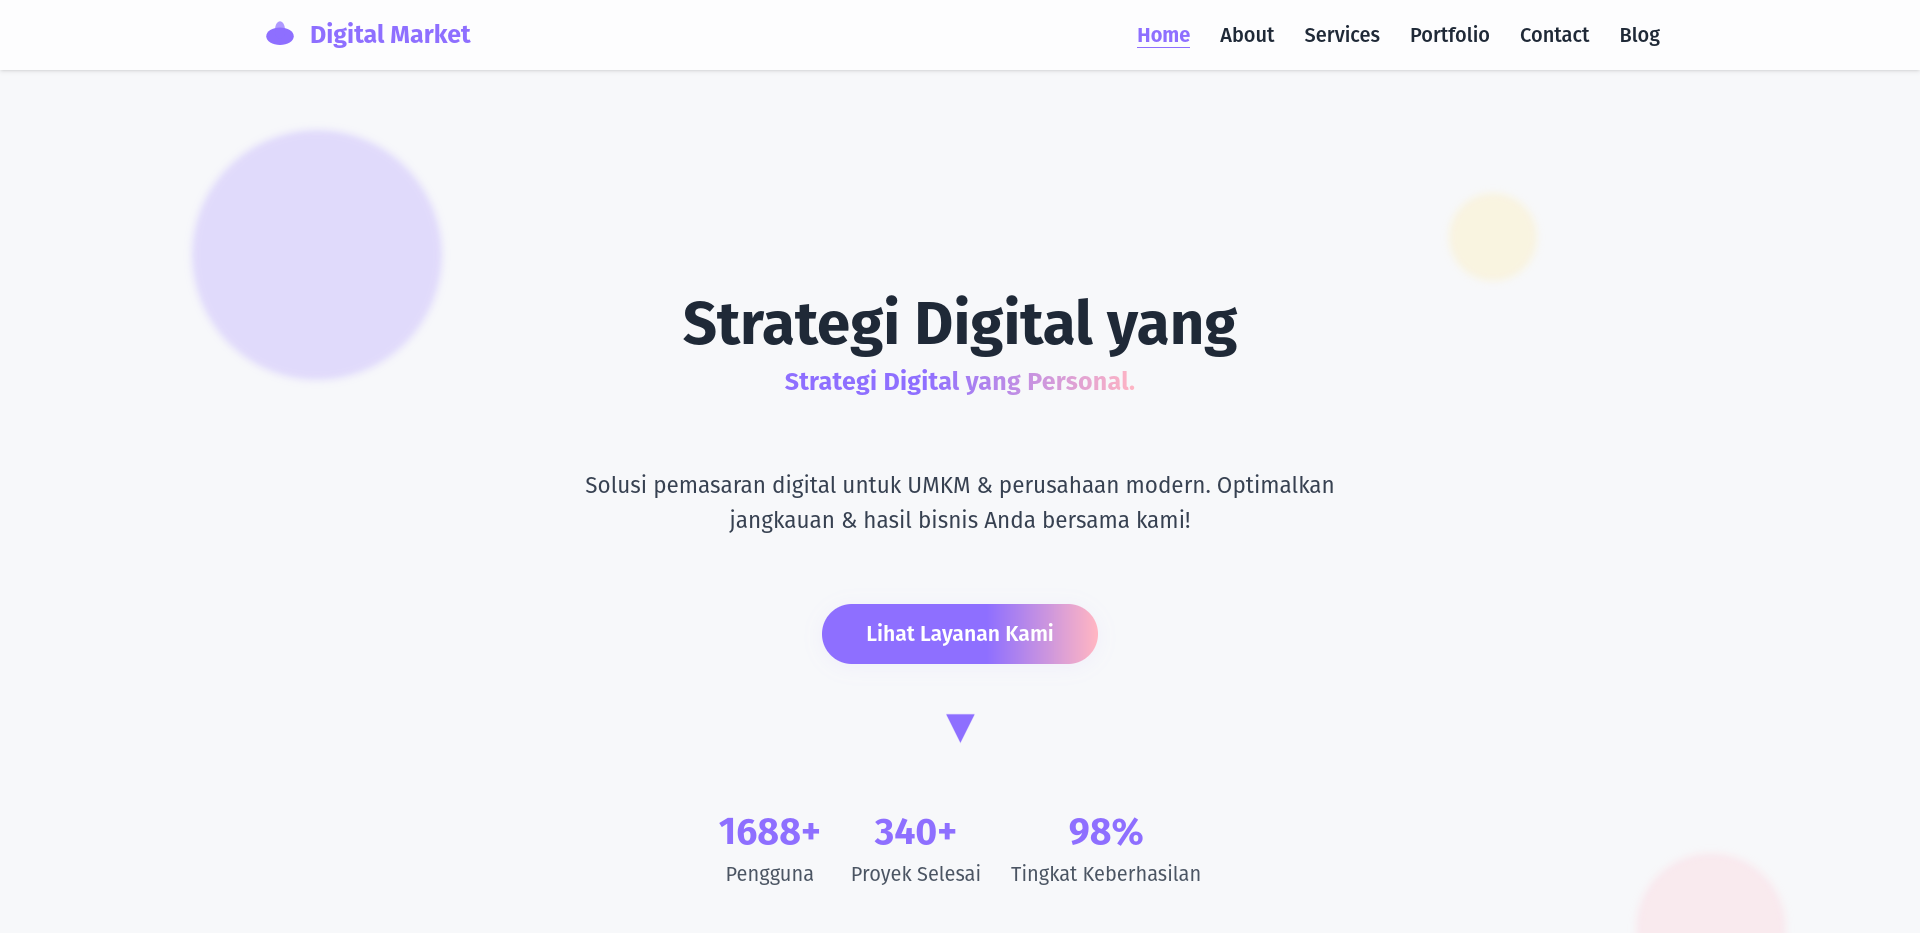
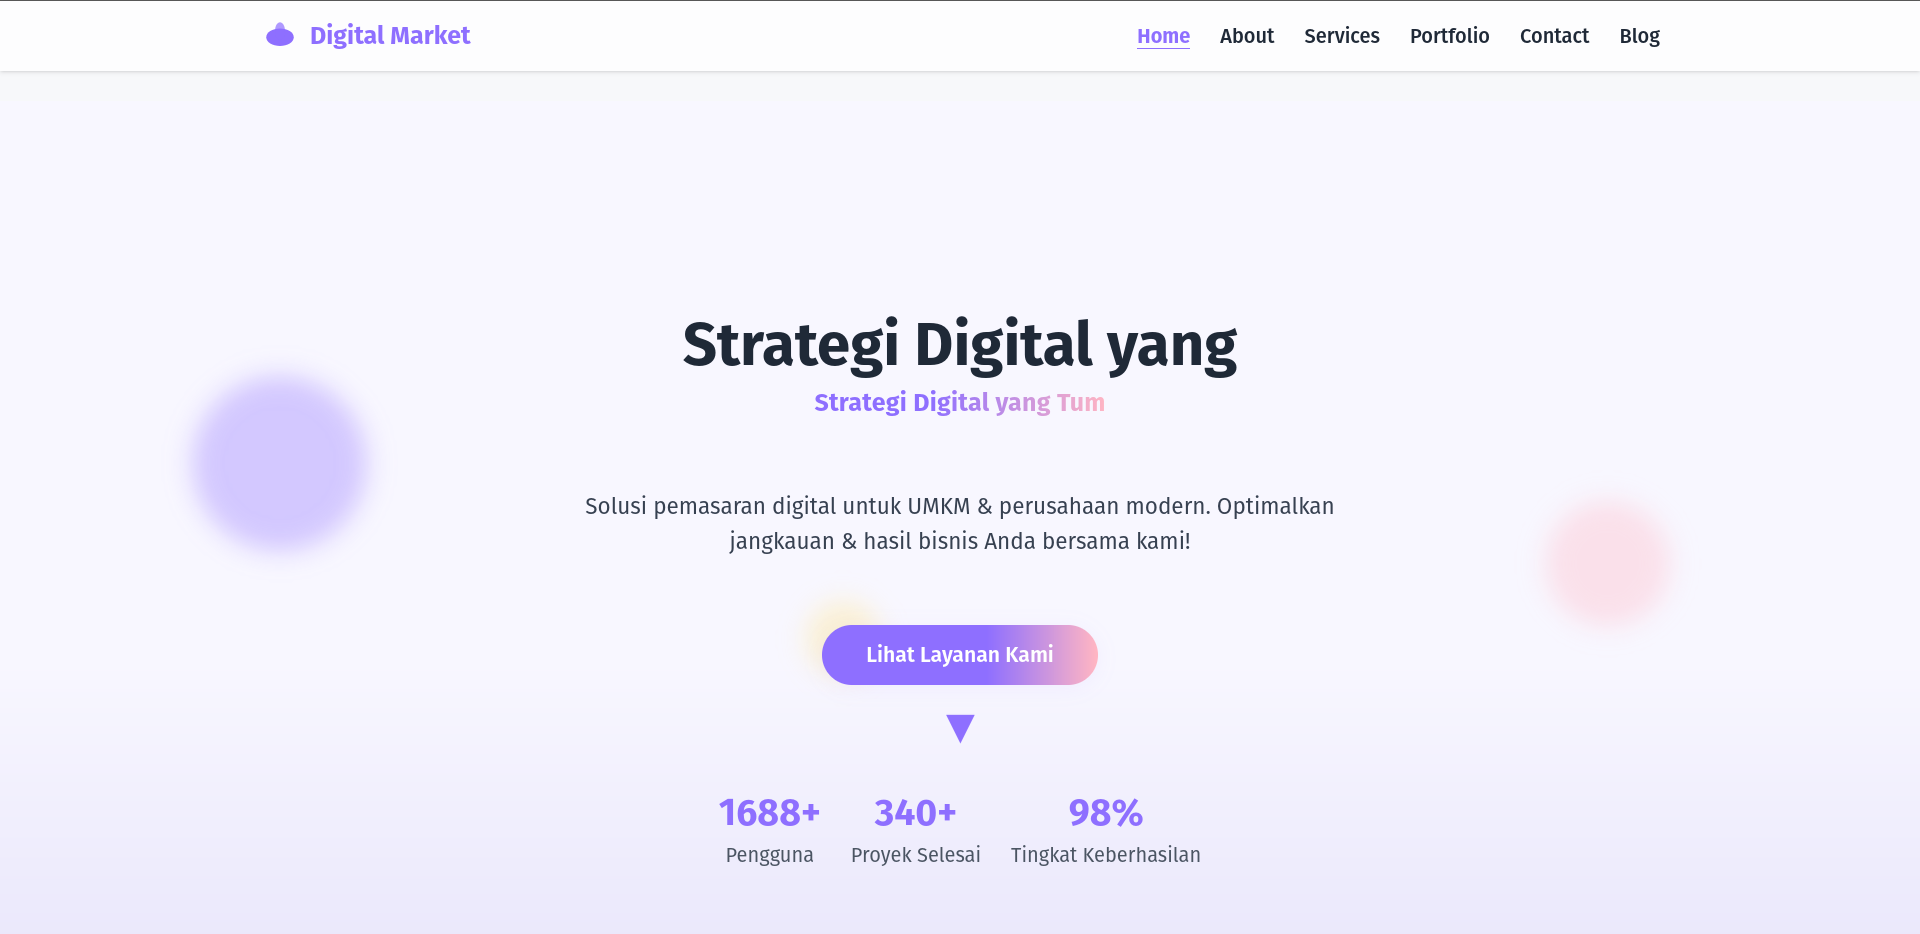
Chore: Update the preview/home.png and adjust padding and margin for consistent view

diff --git a/html/index.html b/html/index.html
@@ -140,7 +140,7 @@
       <!-- HERO SECTION -->
       <section
         id="hero"
-        class="relative min-h-[140vh] flex flex-col justify-center items-center overflow-x-hidden overflow-y-visible"
+        class="relative min-h-screen flex flex-col justify-center items-center overflow-x-hidden overflow-y-visible"
         style="background: linear-gradient(180deg, #f8f7ff 60%, #e6e3fa 100%)"
       >
         <!-- PARALLAX SHAPES -->
@@ -150,7 +150,7 @@
           <div class="parallax-ellipse ellipse-3"></div>
         </div>
         <div
-          class="relative z-10 text-center max-w-2xl mx-auto px-4 pt-32 pb-10"
+          class="relative z-10 text-center max-w-2xl mx-auto px-4 pt-20 pb-10"
         >
           <h1 class="text-4xl md:text-5xl font-bold mb-2 text-center">
             Strategi Digital yang
@@ -168,12 +168,12 @@
           >
           <a
             href="#services"
-            class="down-arrow smooth-scroll flex flex-col items-center mt-10"
+            class="down-arrow smooth-scroll flex flex-col items-center mt-6"
             aria-label="Scroll ke Layanan"
           >
             <span class="animate-bounce text-[#8e6fff] text-3xl">&#x25BC;</span>
           </a>
-          <div class="flex flex-wrap justify-center gap-6 mt-10">
+          <div class="flex flex-wrap justify-center gap-6 mt-6">
             <div class="flex flex-col items-center">
               <span id="users-count" class="text-3xl font-bold text-[#8e6fff]"
                 >0+</span
